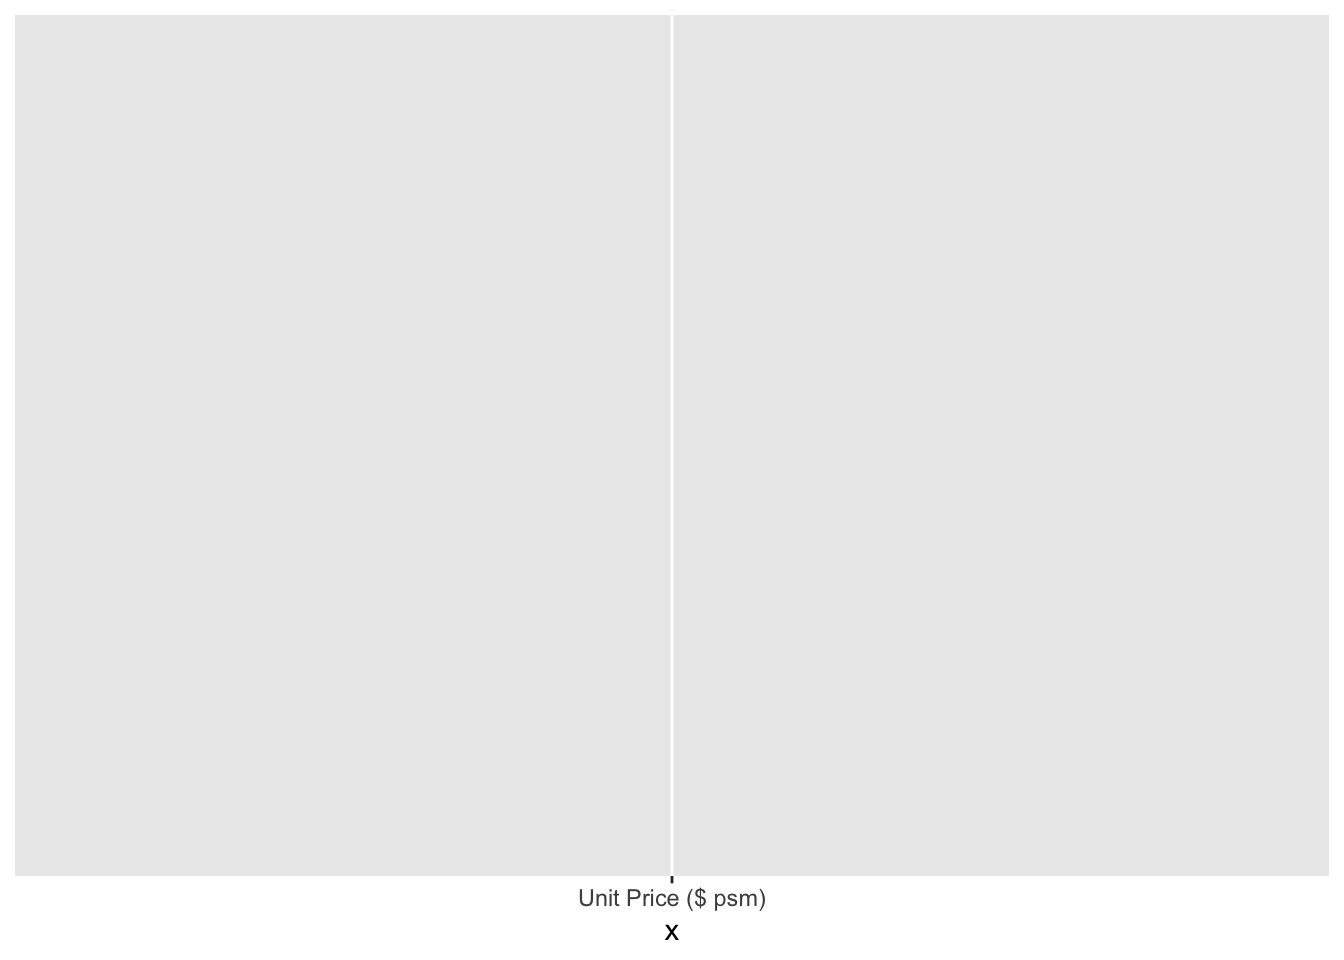
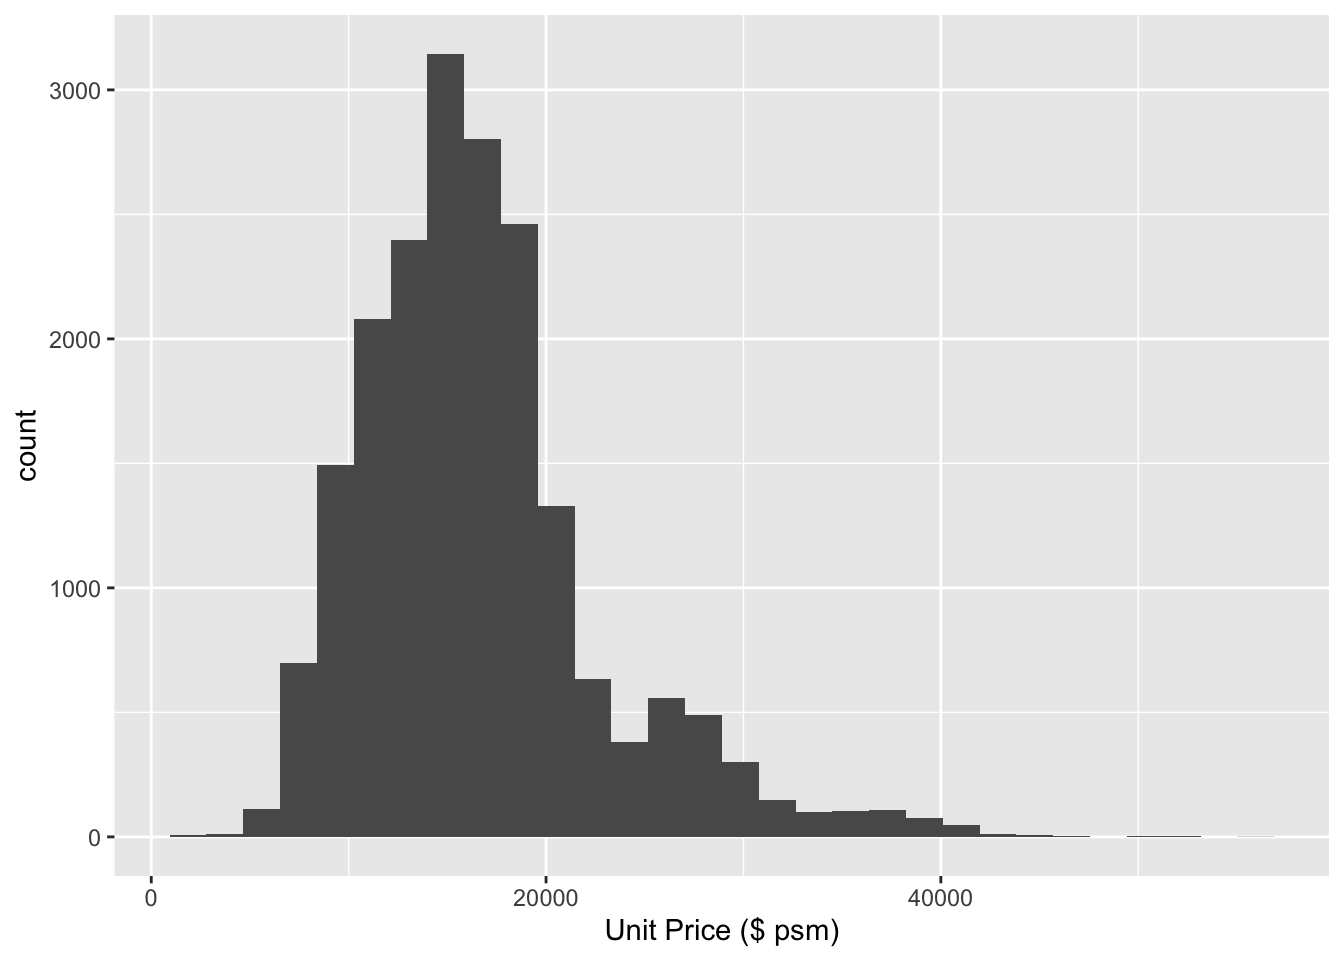
commit of 1st in class ex

diff --git a/_site/In-class_Ex/In-class_Ex01/In-class_Ex01.html b/_site/In-class_Ex/In-class_Ex01/In-class_Ex01.html
@@ -7,7 +7,7 @@
 <meta name="viewport" content="width=device-width, initial-scale=1.0, user-scalable=yes">
 
 <meta name="author" content="Wang Yuhui">
-<meta name="dcterms.date" content="2025-01-04">
+<meta name="dcterms.date" content="2024-04-13">
 
 <title>ISSS-WangYuhui - In-class ex 1</title>
 <style>
@@ -161,14 +161,20 @@ pre > code.sourceCode > span > a:first-child::before { text-decoration: underlin
 <!-- sidebar -->
 <!-- margin-sidebar -->
     <div id="quarto-margin-sidebar" class="sidebar margin-sidebar">
-        
+        <nav id="TOC" role="doc-toc" class="toc-active">
+    <h2 id="toc-title">On this page</h2>
+   
+  <ul>
+  <li><a href="#loading-r-packages" id="toc-loading-r-packages" class="nav-link active" data-scroll-target="#loading-r-packages">Loading R packages</a></li>
+  </ul>
+</nav>
     </div>
 <!-- main -->
-<main class="content page-columns page-full" id="quarto-document-content">
+<main class="content" id="quarto-document-content">
 
 <header id="title-block-header" class="quarto-title-block default">
 <div class="quarto-title">
-<h1 class="title">Hands-on ex 1</h1>
+<h1 class="title">In-class ex 1</h1>
 </div>
 
 
@@ -185,7 +191,7 @@ pre > code.sourceCode > span > a:first-child::before { text-decoration: underlin
     <div>
     <div class="quarto-title-meta-heading">Published</div>
     <div class="quarto-title-meta-contents">
-      <p class="date">January 4, 2025</p>
+      <p class="date">April 13, 2024</p>
     </div>
   </div>
   
@@ -201,21 +207,29 @@ pre > code.sourceCode > span > a:first-child::before { text-decoration: underlin
 
 </header>
 
+<section id="loading-r-packages" class="level2">
+<h2 class="anchored" data-anchor-id="loading-r-packages">Loading R packages</h2>
+<p>In the code chunk below, <a href="https://www.rdocumentation.org/packages/pacman/versions/0.5.1/topics/p_load">p_load()</a> of <a href="https://cran.r-project.org/web/packages/pacman/pacman.pdf">pacman</a> package is used to load tidyverse family of package.</p>
 <div class="cell">
 <div class="sourceCode cell-code" id="cb1"><pre class="sourceCode r code-with-copy"><code class="sourceCode r"><span id="cb1-1"><a href="#cb1-1" aria-hidden="true" tabindex="-1"></a>pacman<span class="sc">::</span><span class="fu">p_load</span>(tidyverse, ggplot2)</span></code><button title="Copy to Clipboard" class="code-copy-button"><i class="bi"></i></button></pre></div>
 </div>
 <div class="cell">
 <div class="sourceCode cell-code" id="cb2"><pre class="sourceCode r code-with-copy"><code class="sourceCode r"><span id="cb2-1"><a href="#cb2-1" aria-hidden="true" tabindex="-1"></a>realis <span class="ot">&lt;-</span> <span class="fu">read_csv</span>(<span class="st">"data/realis2019.csv"</span>)</span></code><button title="Copy to Clipboard" class="code-copy-button"><i class="bi"></i></button></pre></div>
 </div>
-<div class="cell page-columns page-full">
-<div class="sourceCode cell-code" id="cb3"><pre class="sourceCode r code-with-copy"><code class="sourceCode r"><span id="cb3-1"><a href="#cb3-1" aria-hidden="true" tabindex="-1"></a><span class="fu">ggplot</span>(<span class="at">data =</span> realis,</span>
-<span id="cb3-2"><a href="#cb3-2" aria-hidden="true" tabindex="-1"></a>       <span class="fu">aes</span>(<span class="at">x =</span> <span class="st">'Unit Price ($ psm)'</span>))</span></code><button title="Copy to Clipboard" class="code-copy-button"><i class="bi"></i></button></pre></div>
-
-<div class="no-row-height column-margin column-container"><div class="cell-output-display">
+<div class="cell">
+<div class="sourceCode cell-code" id="cb3"><pre class="sourceCode r code-with-copy"><code class="sourceCode r"><span id="cb3-1"><a href="#cb3-1" aria-hidden="true" tabindex="-1"></a><span class="cf">if</span> (<span class="fu">is.factor</span>(realis<span class="sc">$</span><span class="st">`</span><span class="at">Unit Price ($ psm))</span><span class="st">`</span>) <span class="sc">||</span> <span class="fu">is.character</span>(realis<span class="sc">$</span><span class="st">`</span><span class="at">Unit Price ($ psm)</span><span class="st">`</span>)) {</span>
+<span id="cb3-2"><a href="#cb3-2" aria-hidden="true" tabindex="-1"></a>  realis<span class="sc">$</span><span class="st">`</span><span class="at">Unit Price ($ psm)</span><span class="st">`</span> <span class="ot">&lt;-</span> <span class="fu">as.numeric</span>(<span class="fu">as.character</span>(realis<span class="sc">$</span><span class="st">`</span><span class="at">Unit Price ($ psm)</span><span class="st">`</span>))</span>
+<span id="cb3-3"><a href="#cb3-3" aria-hidden="true" tabindex="-1"></a>}</span>
+<span id="cb3-4"><a href="#cb3-4" aria-hidden="true" tabindex="-1"></a></span>
+<span id="cb3-5"><a href="#cb3-5" aria-hidden="true" tabindex="-1"></a><span class="fu">ggplot</span>(<span class="at">data=</span>realis, <span class="fu">aes</span>(<span class="at">x =</span> <span class="st">`</span><span class="at">Unit Price ($ psm)</span><span class="st">`</span>)) <span class="sc">+</span></span>
+<span id="cb3-6"><a href="#cb3-6" aria-hidden="true" tabindex="-1"></a>  <span class="fu">geom_histogram</span>()</span></code><button title="Copy to Clipboard" class="code-copy-button"><i class="bi"></i></button></pre></div>
+<div class="cell-output-display">
 <p><img src="In-class_Ex01_files/figure-html/unnamed-chunk-3-1.png" class="img-fluid" width="672"></p>
-</div></div></div>
+</div>
+</div>
 
 
+</section>
 
 </main> <!-- /main -->
 <script id="quarto-html-after-body" type="application/javascript">
